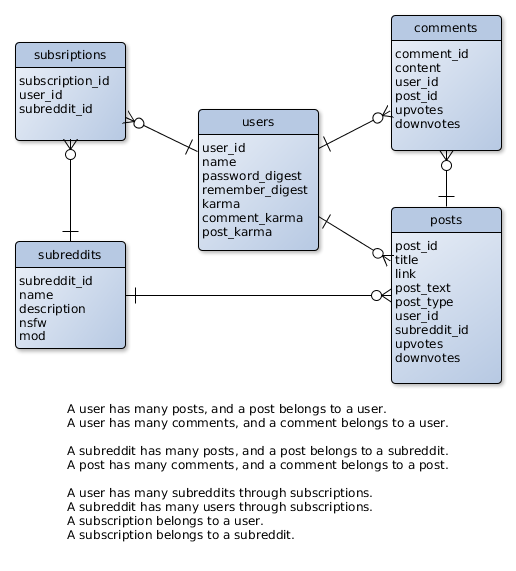
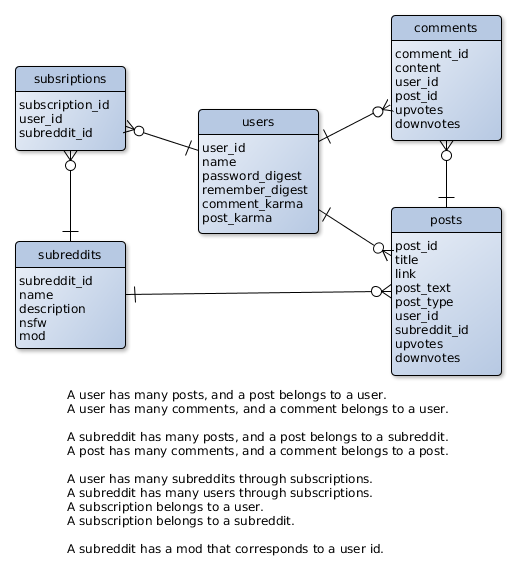
Created base for user-page
Created the basics for a user page. Need to create subreddits, posts, and comments; as a users page will list all that theyve posted and commented on.

diff --git a/planning/micro_reddit_data_model.html b/planning/micro_reddit_data_model.html
@@ -95,15 +95,15 @@ tooltip.style.display = "none";
 <div class="tooltip" id="n2">posts</div>
 <div class="tooltip" id="n3">comments</div>
 <div class="tooltip" id="n4">subsriptions</div>
-<div class="tooltip" id="n5">A user has many posts, and a post belongs to a user.<br>A user has many comments, and a comment belongs to a user.<br><br>A subreddit has many posts, and a post belongs to a subreddit.<br>A post has many comments, and a comment belongs to a post.<br><br>A user has many subreddits through subscriptions.<br>A subreddit has many users through subscriptions.<br>A subscription belongs to a user.<br>A subscription belongs to a subreddit.</div>
+<div class="tooltip" id="n5">A user has many posts, and a post belongs to a user.<br>A user has many comments, and a comment belongs to a user.<br><br>A subreddit has many posts, and a post belongs to a subreddit.<br>A post has many comments, and a comment belongs to a post.<br><br>A user has many subreddits through subscriptions.<br>A subreddit has many users through subscriptions.<br>A subscription belongs to a user.<br>A subscription belongs to a subreddit.<br><br>A subreddit has a mod that corresponds to a user id.</div>
 
 <map name="image1_1">
   <area shape="rect" coords="15,388,501,556" alt="" onmouseover="showTooltip('n5')" onmouseout="hideTooltip()"/>
-  <area shape="rect" coords="15,42,125,140" alt="" onmouseover="showTooltip('n4')" onmouseout="hideTooltip()"/>
-  <area shape="rect" coords="391,15,501,150" alt="" onmouseover="showTooltip('n3')" onmouseout="hideTooltip()"/>
-  <area shape="rect" coords="391,207,501,383" alt="" onmouseover="showTooltip('n2')" onmouseout="hideTooltip()"/>
+  <area shape="rect" coords="15,66,125,150" alt="" onmouseover="showTooltip('n4')" onmouseout="hideTooltip()"/>
+  <area shape="rect" coords="391,15,501,140" alt="" onmouseover="showTooltip('n3')" onmouseout="hideTooltip()"/>
+  <area shape="rect" coords="391,207,501,375" alt="" onmouseover="showTooltip('n2')" onmouseout="hideTooltip()"/>
   <area shape="rect" coords="15,241,125,348" alt="" onmouseover="showTooltip('n1')" onmouseout="hideTooltip()"/>
-  <area shape="rect" coords="198,109,318,250" alt="" onmouseover="showTooltip('n0')" onmouseout="hideTooltip()"/>
+  <area shape="rect" coords="198,109,318,233" alt="" onmouseover="showTooltip('n0')" onmouseout="hideTooltip()"/>
 </map>
 
 

diff --git a/app/assets/stylesheets/style.css.scss b/app/assets/stylesheets/style.css.scss
@@ -58,10 +58,16 @@ body {
 
 .wrapper {
   @include shrink_wrap;
+  background: $body-blue;
   display: block;
   min-height: 100%;
   width: 100%;
   color: $dark-blue
+}
+
+.main-content {
+  border: none;
+  border-top: 1px solid $dark-blue;
 }
 
 .container {
@@ -198,8 +204,6 @@ nav {
   background: $body-blue;
 }
 
-
-
 .sidebar {
   @include shrink_wrap;
   display: table-cell;
@@ -269,6 +273,25 @@ nav {
       }
     }
   }
+}
+
+/* Flashes */
+
+.alert {
+  margin: 10px auto;
+  padding: 5px;
+  border-radius: 8px;
+  width: 50%;
+  text-align: center;
+  font-family: $content-font;
+  font-size: 12pt;
+
+}
+
+.alert-danger {
+  background: #FFAAAA;
+  border: 2px solid #801515;
+  color: #801515;
 }
 
 /* signup */

diff --git a/db/schema.rb b/db/schema.rb
@@ -10,16 +10,16 @@
 #
 # It's strongly recommended that you check this file into your version control system.
 
-ActiveRecord::Schema.define(version: 20170303111043) do
+ActiveRecord::Schema.define(version: 20170303115305) do
 
   create_table "comments", force: :cascade do |t|
     t.text     "content"
     t.integer  "post_id"
     t.integer  "user_id"
-    t.datetime "created_at", null: false
-    t.datetime "updated_at", null: false
-    t.integer  "upvotes"
-    t.integer  "downvotes"
+    t.datetime "created_at",             null: false
+    t.datetime "updated_at",             null: false
+    t.integer  "upvotes",    default: 0
+    t.integer  "downvotes",  default: 0
     t.index ["post_id"], name: "index_comments_on_post_id"
     t.index ["user_id"], name: "index_comments_on_user_id"
   end
@@ -31,10 +31,10 @@ ActiveRecord::Schema.define(version: 20170303111043) do
     t.integer  "post_type"
     t.integer  "user_id"
     t.integer  "subreddit_id"
-    t.datetime "created_at",   null: false
-    t.datetime "updated_at",   null: false
-    t.integer  "upvotes"
-    t.integer  "downvotes"
+    t.datetime "created_at",               null: false
+    t.datetime "updated_at",               null: false
+    t.integer  "upvotes",      default: 0
+    t.integer  "downvotes",    default: 0
     t.index ["subreddit_id"], name: "index_posts_on_subreddit_id"
     t.index ["user_id"], name: "index_posts_on_user_id"
   end
@@ -61,14 +61,12 @@ ActiveRecord::Schema.define(version: 20170303111043) do
   create_table "users", force: :cascade do |t|
     t.string   "name"
     t.string   "password_digest"
-    t.datetime "created_at",      null: false
-    t.datetime "updated_at",      null: false
+    t.datetime "created_at",                  null: false
+    t.datetime "updated_at",                  null: false
     t.string   "remember_digest"
-    t.integer  "karma"
-    t.integer  "comment_karma"
-    t.integer  "post_karma"
+    t.integer  "comment_karma",   default: 0
+    t.integer  "post_karma",      default: 0
     t.index ["name"], name: "index_users_on_name", unique: true
-    t.index [nil], name: "index_users_on_user", unique: true
   end
 
 end

diff --git a/db/migrate/20170303114917_add_default_karma_values.rb b/db/migrate/20170303114917_add_default_karma_values.rb
@@ -1,0 +1,10 @@
+class AddDefaultKarmaValues < ActiveRecord::Migration[5.0]
+  def change
+    change_column_default :users,    :comment_karma, 0
+    change_column_default :users,    :post_karma,    0
+    change_column_default :posts,    :upvotes,       0
+    change_column_default :posts,    :downvotes,     0
+    change_column_default :comments, :upvotes,       0
+    change_column_default :comments, :downvotes,     0
+  end
+end

diff --git a/config/routes.rb b/config/routes.rb
@@ -1,11 +1,13 @@
 Rails.application.routes.draw do
   resources :users, only: [:destroy]
 
-  get    '/signup',    to: 'users#new'
-  post   '/signup',    to: 'users#create'
+  get  '/signup', to: 'users#new'
+  post '/signup', to: 'users#create'
 
   post '/login', to: 'sessions#create'
   get '/logout', to: 'sessions#destroy'
+
+  get '/user/:name', to: 'users#show'
 
   # Static pages
   get '/legal', to: 'static_pages#legal'

diff --git a/app/controllers/users_controller.rb b/app/controllers/users_controller.rb
@@ -15,6 +15,14 @@ class UsersController < ApplicationController
     end
   end
 
+  def show
+    @user = User.find_by(name: params["name"])
+
+    unless @user
+      flash.now[:danger] = "Could not find user #{params["name"]}"
+    end
+  end
+
   def delete
   end
 

diff --git a/app/models/user.rb b/app/models/user.rb
@@ -49,6 +49,10 @@ class User < ApplicationRecord
     BCrypt::Password.new(self.remember_digest).is_password?(token)
   end
 
+  def karma
+    post_karma + comment_karma
+  end
+
   private
 
     def downcase_name

diff --git a/db/migrate/20170303115305_remove_karma_from_users.rb b/db/migrate/20170303115305_remove_karma_from_users.rb
@@ -1,0 +1,5 @@
+class RemoveKarmaFromUsers < ActiveRecord::Migration[5.0]
+  def change
+    remove_column :users, :karma, 'integer'
+  end
+end
